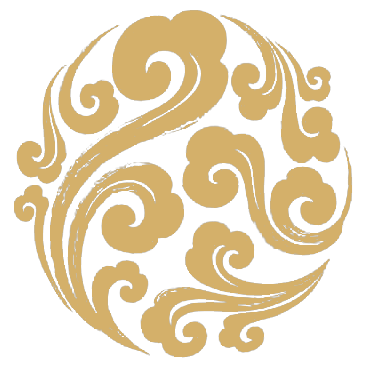
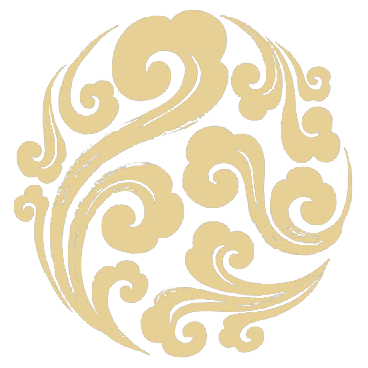
Lighten the cloud behind the timer and hours.
The roundel stays complete and moves to a softer cream gold.

diff --git a/src/components/project-board.tsx b/src/components/project-board.tsx
@@ -173,7 +173,7 @@ export function ProjectBoard({
           <ProjectClock onFinish={onFinish} />
           <span
             className="grid size-24 shrink-0 place-items-center bg-center bg-no-repeat text-sm font-normal tabular-nums text-[#123e3a]"
-            style={{ backgroundImage: "url('/skill-cloud.png?v=4')", backgroundSize: "contain" }}
+            style={{ backgroundImage: "url('/skill-cloud.png?v=5')", backgroundSize: "contain" }}
           >
             {Math.floor((project.bankMinutes ?? 0) / 60)}/500
           </span>
@@ -662,7 +662,7 @@ export function ProjectClock({ onFinish }: { onFinish: (minutes: number) => void
         aria-expanded={choosing}
         aria-label={running ? "Timer options" : paused ? "Resume timer" : "Start timer"}
         className="relative grid size-24 place-items-center border-0 bg-transparent bg-center bg-no-repeat p-0 text-[#123e3a]"
-        style={{ backgroundImage: "url('/skill-cloud.png?v=4')", backgroundSize: "contain" }}
+        style={{ backgroundImage: "url('/skill-cloud.png?v=5')", backgroundSize: "contain" }}
       >
         {checkPop ? (
           <svg viewBox="0 0 16 16" className="relative size-10 text-[#26867b]" style={{ animation: "motto-burst 700ms ease-out" }} aria-hidden>
